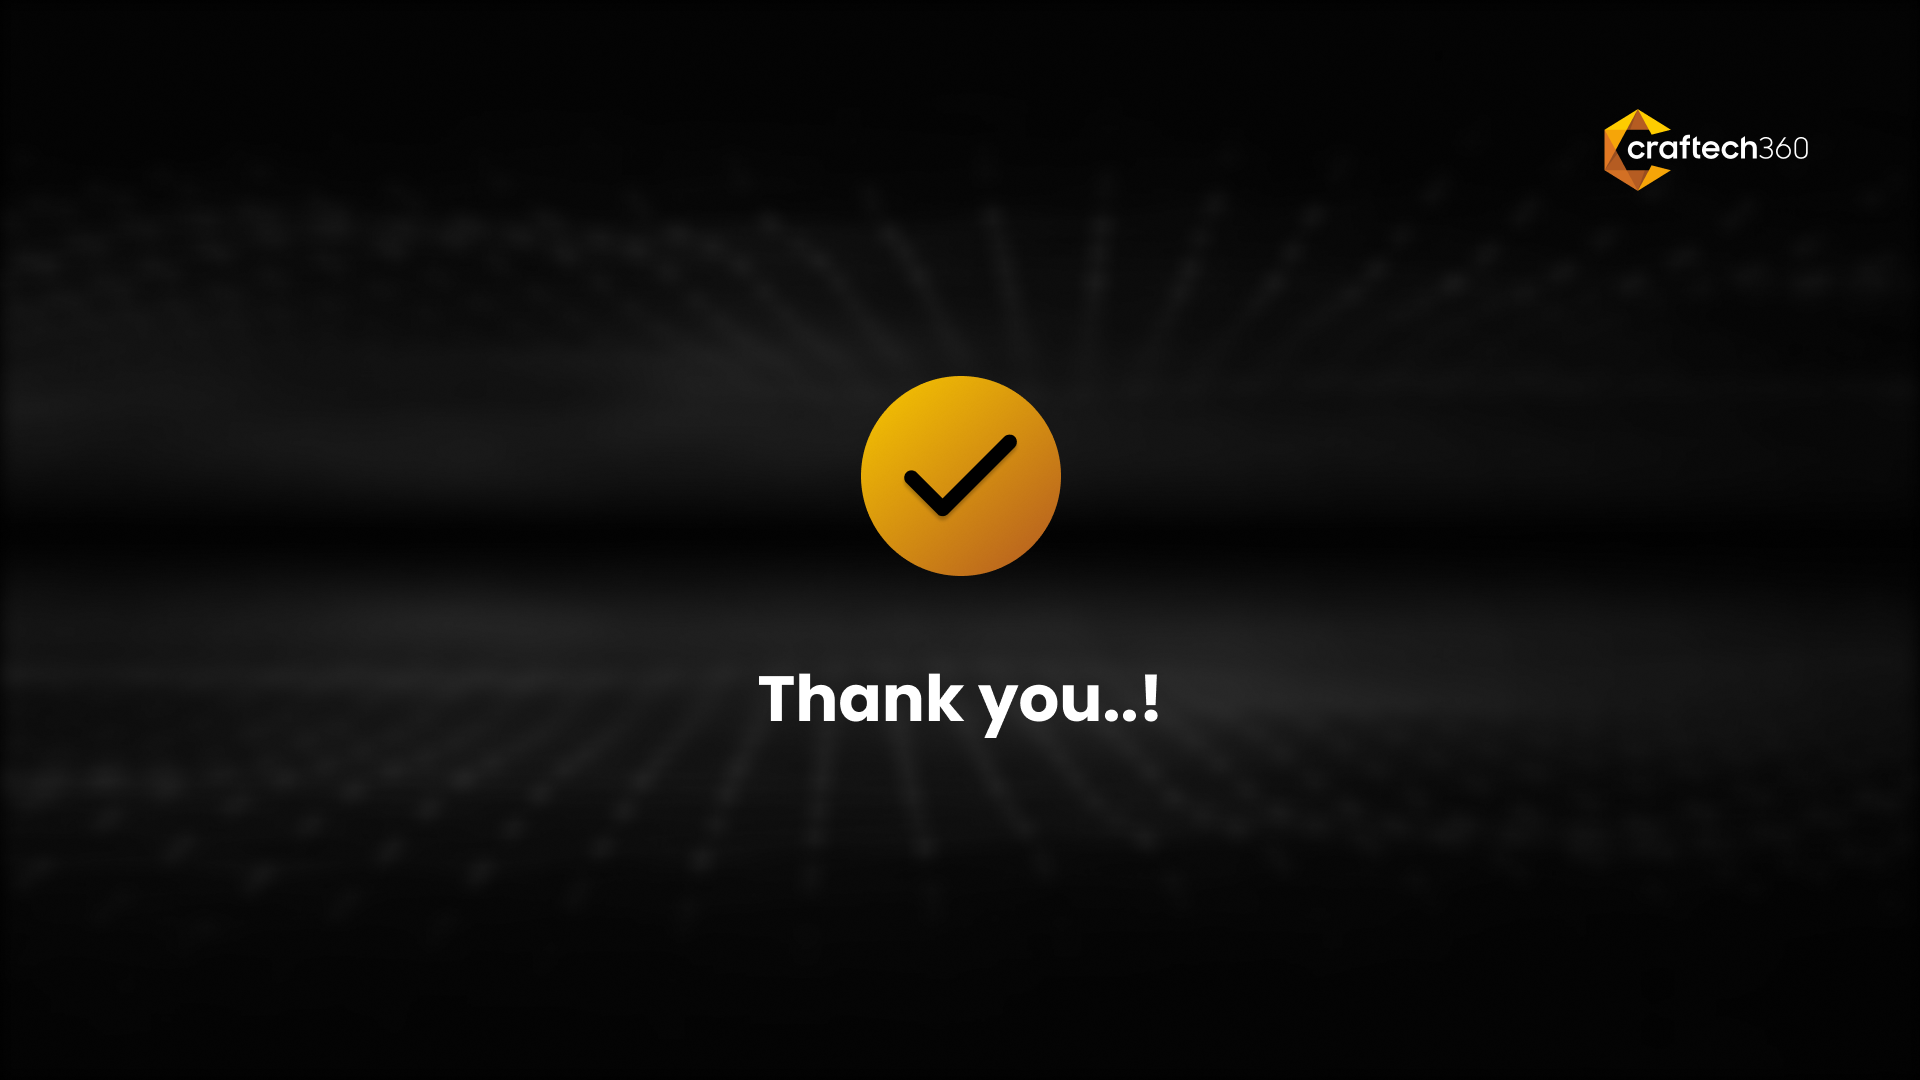
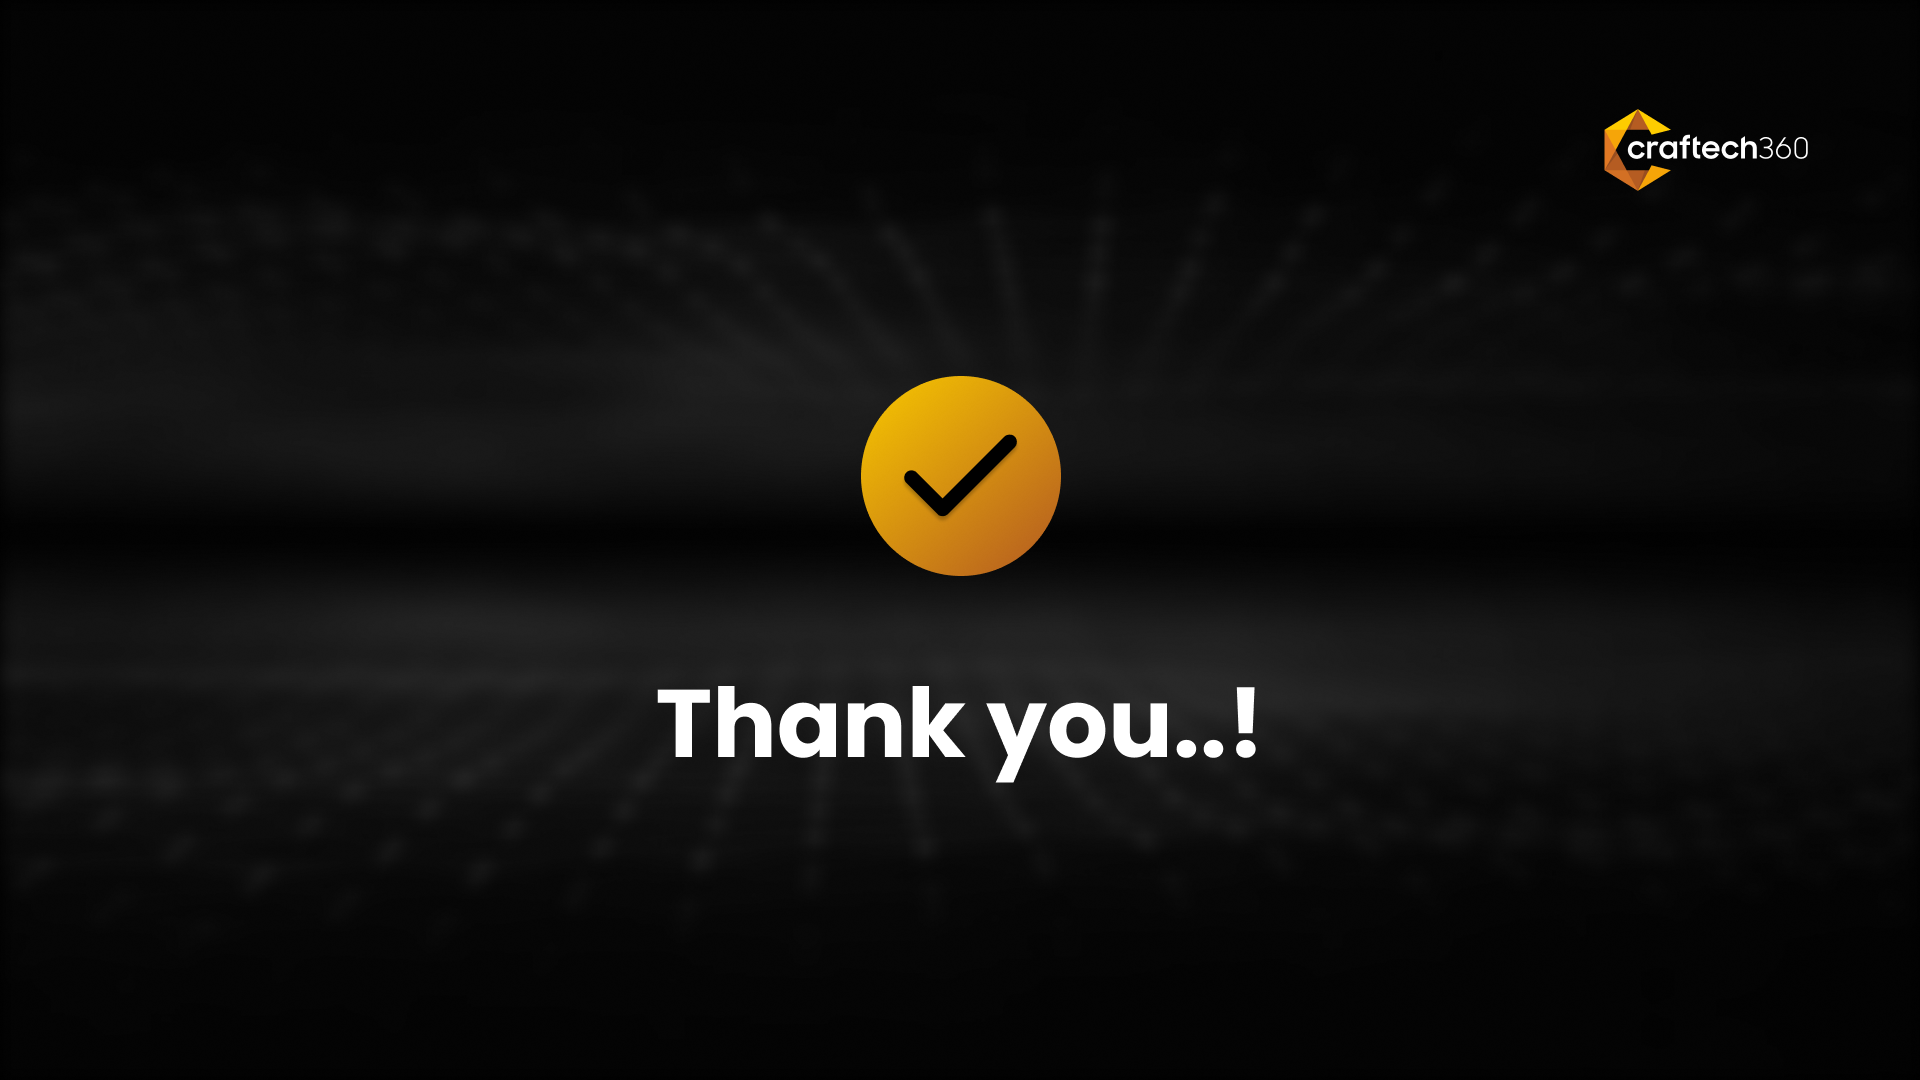
ui change - rec page

Changed region(s): [[0.3438, 0.6111, 0.6562, 0.7333]]

diff --git a/assets/js/script.js b/assets/js/script.js
@@ -127,9 +127,7 @@ async function faceRecognition() {
         });
         DATA = result._label.split('+')
         // drawBox.draw(canvas);
-        setTimeout(()=>{
           showPrint()
-        },2000)
       });
     // }, 5000);
 }
@@ -148,12 +146,19 @@ function showPrint(){
   document.getElementById('Company').innerHTML += COMPANY
 }
 
-function printBadge(){
-  downloadReceipt()
+// function printBadge(){
+//   downloadReceipt()
+//   showThanks()
+// }
+
+function showThanks(){
     document.getElementById('PrintBadge').style.display = 'none'
     document.getElementById('showThanks').style.display = 'flex'
-    
+    setTimeout(()=>{
+      location.reload()
+    },5000)
 }
+
 
 function downloadReceipt() {
   // document.getElementById('print').style.display = 'none'
@@ -170,6 +175,11 @@ function downloadReceipt() {
   };
   const response = await fetch('http://localhost:3000/upload', options1)
   const res_data = await response.json()
-  console.log(res_data.ImageName)  
+  console.log(res_data.ImageName)
+  showThanks()
   })
+}
+
+function goBack(){
+  location.reload()
 }

diff --git a/views/index1.html b/views/index1.html
@@ -48,14 +48,13 @@ video {
       <!-- <div id="badge"> -->
           <div id="show">
             <img id="logo" src="../assets/images/bgs/Ellipse 1.png" alt="">
-              <div style="    margin-top: 19%;
-              margin-left: 19%;">
+              <div style="margin-top: 17%; margin-left: 17%;">
                   <p id="Name">Name:&nbsp;</p>
                   <p id="Company">Company:&nbsp;</p>
               </div>
           </div>
           <div id="layouts">
-              <button class="print" id="printer" onclick="printBadge()">Print Badge</button>
+              <button class="print" id="printer" onclick="downloadReceipt()">Print Badge</button>
               <button class="print" id="goback" onclick="goBack()">Back</button>
           </div>
       <!-- </div> -->

diff --git a/assets/css/styleIndex.css b/assets/css/styleIndex.css
@@ -6,8 +6,8 @@
 
 .print{
     cursor: pointer;
-    width: 90px;
-    height: 56px;
+    width: 5em;
+    height: 2.5em;
     background-color: #F8C800;
     font-size: 28px;
     font-weight: bold;
@@ -82,11 +82,11 @@
 #goback{
     position: absolute;
     bottom: 4%;
-    left: 37%;
+    left: 36%;
 }
 
 #printer{
     position: absolute;
     bottom: 4%;
-    left: 59%;
+    left: 58%;
 }
